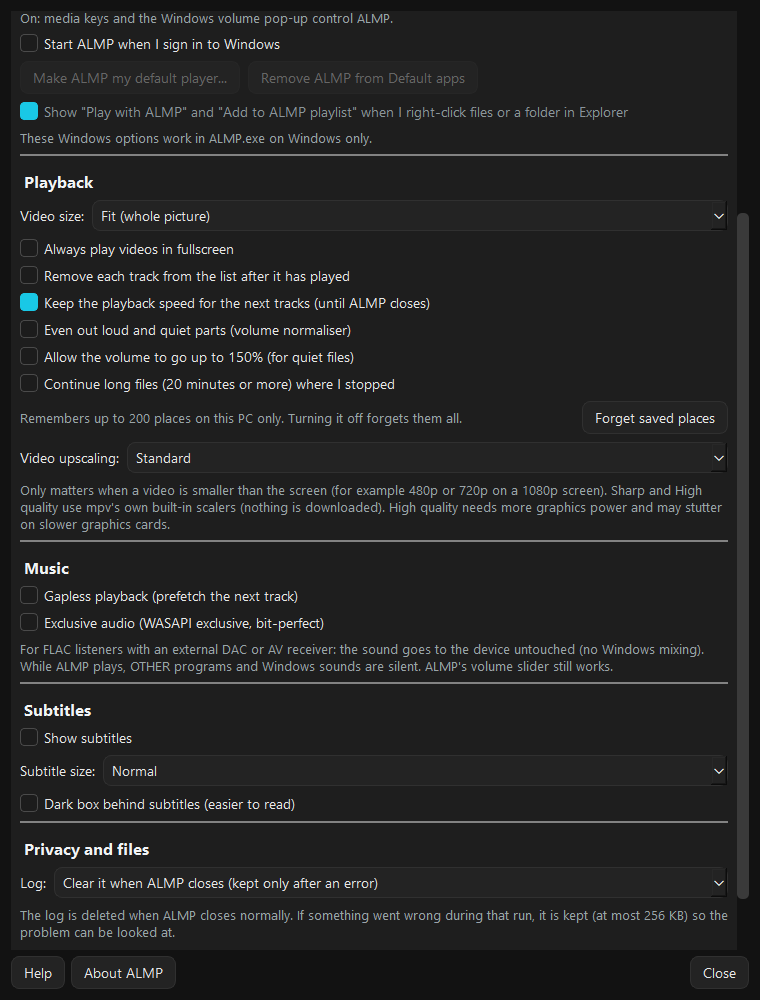
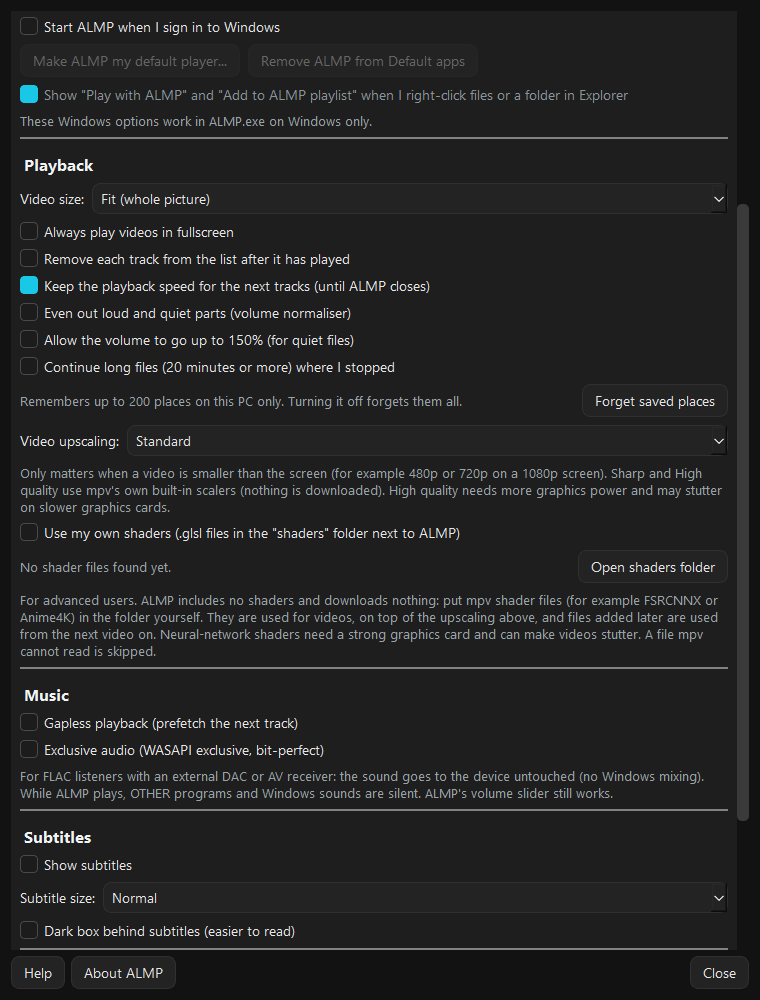
Optional user shaders: .glsl files in a "shaders" folder next to ALMP.exe
Settings > Video upscaling > "Use my own shaders" (off by default) hands the
files to mpv (glsl-shaders) for videos; "Open shaders folder" creates and
opens it. ALMP ships no shaders and downloads nothing. Checked with the real
mpv: a broken shader is skipped and the picture keeps showing. Notes, docs,
Settings screenshot and social card updated.

diff --git a/almp/ui.py b/almp/ui.py
@@ -105,14 +105,17 @@ from .media import (
     write_playlist_file,
 )
 from .naturalsort import natural_name_key, natural_path_key
-from .paths import get_app_icon_path, is_compiled
+from .paths import app_dir, get_app_icon_path, is_compiled
 from .player import (
     BOOST_MAX_VOLUME,
     MPV_IMPORT_ERROR,
     NORMAL_MAX_VOLUME,
     SCALER_KEYS,
+    SHADER_FOLDER,
     VIDEO_SIZE_NAMES,
+    apply_user_shaders,
     audio_format_text,
+    find_user_shaders,
     gapless_options,
     get_mpv_end_reason,
     mpv,
@@ -709,6 +712,46 @@ class MediaWindow(QMainWindow):
     def _apply_upscaling(self, level):
         for k, v in upscaling_properties(level, self._scaler_defaults).items():
             set_prop(self.player, k, v)
+
+    def user_shader_folder(self):
+        """The "shaders" folder next to ALMP.exe (next to main.py when run from source)."""
+        return os.path.join(app_dir(), SHADER_FOLDER)
+
+    def set_user_shaders(self, on):
+        """Settings > Video upscaling > Use my own shaders. Returns the files now in use."""
+        self.settings["user_shaders"] = bool(on)
+        update_settings(user_shaders=bool(on))
+        found = self._apply_user_shaders()
+        if not on:
+            self._status("Your own shaders are off.")
+        elif found:
+            self._status(f"Your own shaders: {len(found)} file(s) in use for videos.")
+        else:
+            self._status("No shader files (.glsl) in the shaders folder yet; nothing was loaded.")
+        return found
+
+    def _apply_user_shaders(self):
+        """Hand the files in the shaders folder to mpv (looked at again for every video, so files
+        added later are used from the next video on). Only mpv is told when the list changed."""
+        paths = find_user_shaders(self.user_shader_folder()) if self.settings.get("user_shaders") else []
+        if paths != getattr(self, "_shaders_loaded", []):
+            if apply_user_shaders(self.player, paths):
+                self._shaders_loaded = paths
+                if paths:
+                    log.info("User shaders in use: %s", ", ".join(os.path.basename(p) for p in paths))
+        return paths
+
+    def open_user_shader_folder(self):
+        """Create the shaders folder if needed (only on this click) and open it in Explorer."""
+        folder = self.user_shader_folder()
+        try:
+            os.makedirs(folder, exist_ok=True)
+        except OSError:
+            log.warning("Could not create %s", folder, exc_info=True)
+            self._status("The shaders folder cannot be created here (the ALMP folder is read-only).")
+            return False
+        QDesktopServices.openUrl(QUrl.fromLocalFile(folder))
+        return True
 
     def set_log_mode(self, mode):
         """Settings > Privacy > Log. Used when ALMP closes (and at the next start)."""
@@ -1898,6 +1941,8 @@ class MediaWindow(QMainWindow):
                     log.debug("mpv option %s not readable", k, exc_info=True)
             if s["upscaling"] != "standard":
                 self._apply_upscaling(s["upscaling"])
+            if s["user_shaders"]:
+                self._apply_user_shaders()
 
             @self.player.event_callback("end-file")
             def handle_end_file(event):
@@ -3129,6 +3174,8 @@ class MediaWindow(QMainWindow):
             already = self._in_end_handler and planned == path and not options
             try:
                 set_prop(self.player, "sub-visibility", bool(self.settings["show_subtitles"]))
+                if self.settings["user_shaders"] and not is_audio_path(path):
+                    self._apply_user_shaders()
                 if not already:
                     self.player.loadfile(path, mode="replace", **options)
                     self._loadfile_count += 1

diff --git a/tests/test_qt_window.py b/tests/test_qt_window.py
@@ -5,6 +5,7 @@ so these run there. Nothing here plays sound or opens a visible window."""
 import os
 import time
 import types
+from pathlib import Path
 
 import pytest
 
@@ -588,3 +589,65 @@ def test_ctrl_and_shift_click_select_several(window, qapp):
     assert window._selected_source_rows() == [1, 3, 4, 5]
     click(2)                                                     # a plain click: just that one again
     assert window._selected_source_rows() == [2]
+
+
+def test_find_user_shaders(tmp_path):
+    from almp.player import MAX_USER_SHADERS, find_user_shaders
+    assert find_user_shaders(tmp_path / "missing") == []
+    (tmp_path / "b_FSRCNNX.glsl").write_text("x")
+    (tmp_path / "A_anime4k.GLSL").write_text("x")
+    (tmp_path / "c.hook").write_text("x")
+    (tmp_path / "readme.txt").write_text("x")
+    (tmp_path / "sub.glsl").mkdir()
+    assert [Path(p).name for p in find_user_shaders(tmp_path)] == ["A_anime4k.GLSL", "b_FSRCNNX.glsl", "c.hook"]
+    for i in range(MAX_USER_SHADERS + 5):
+        (tmp_path / f"z{i:02}.glsl").write_text("x")
+    assert len(find_user_shaders(tmp_path)) == MAX_USER_SHADERS
+
+
+def test_apply_user_shaders_commands():
+    from almp.player import apply_user_shaders
+    p = FakeMPV()
+    assert apply_user_shaders(p, ["C:/s/a.glsl", "C:/s/b.glsl"])
+    assert p.commands == [("change-list", "glsl-shaders", "clr", ""),
+                          ("change-list", "glsl-shaders", "append", "C:/s/a.glsl"),
+                          ("change-list", "glsl-shaders", "append", "C:/s/b.glsl")]
+    assert apply_user_shaders(None, []) is False
+
+
+def test_user_shaders_setting_off_by_default_and_live(window, qapp, tmp_path, monkeypatch):
+    from almp.settings import DEFAULTS, effective_settings
+    assert DEFAULTS["user_shaders"] is False and effective_settings({})["user_shaders"] is False
+    folder = tmp_path / "shaders"
+    folder.mkdir()
+    monkeypatch.setattr(window, "user_shader_folder", lambda: str(folder))
+    window.player.commands.clear()
+    assert window.set_user_shaders(True) == []                  # empty folder: nothing to load
+    assert window.player.commands == []
+    (folder / "FSRCNNX_x2.glsl").write_text("//!HOOK MAIN")
+    from almp.store import make_entry
+    video = str(tmp_path / "clip.mp4")
+    window.model.append_entries([make_entry(video), make_entry(str(tmp_path / "song.flac"))])
+    window.play_index(window.store.index_of(video))             # a new video looks at the folder again
+    assert ("change-list", "glsl-shaders", "append", str(folder / "FSRCNNX_x2.glsl")) in window.player.commands
+    window.player.commands.clear()
+    window.play_index(window.store.index_of(video))             # unchanged: mpv is not told again
+    assert not any(c[:2] == ("change-list", "glsl-shaders") for c in window.player.commands)
+    assert window.set_user_shaders(False) == []
+    assert window.player.commands[-1] == ("change-list", "glsl-shaders", "clr", "")
+    assert window.settings["user_shaders"] is False
+
+
+def test_settings_dialog_shows_shader_files(window, qapp, tmp_path, monkeypatch):
+    from almp.dialogs import SettingsDialog
+    folder = tmp_path / "shaders"
+    monkeypatch.setattr(window, "user_shader_folder", lambda: str(folder))
+    dlg = SettingsDialog(window)
+    assert dlg.user_shaders.isChecked() is False
+    assert "No shader files" in dlg.shader_found.text()
+    folder.mkdir()
+    (folder / "Anime4K_Upscale.glsl").write_text("x")
+    dlg.user_shaders.setChecked(True)
+    assert "Found 1 shader file(s): Anime4K_Upscale.glsl" in dlg.shader_found.text()
+    assert window.settings["user_shaders"] is True
+    dlg.close()

diff --git a/almp/dialogs.py b/almp/dialogs.py
@@ -52,6 +52,12 @@ UPSCALING_NOTE = ("Only matters when a video is smaller than the screen (for exa
                   "downloaded). High quality needs more graphics power and may stutter on slower "
                   "graphics cards.")
 
+SHADERS_NOTE = ("For advanced users. ALMP includes no shaders and downloads nothing: put mpv shader "
+                "files (for example FSRCNNX or Anime4K) in the folder yourself. They are used for videos, "
+                "on top of the upscaling above, and files added later are used from the next video on. "
+                "Neural-network shaders need a strong graphics card and can make videos stutter. A file "
+                "mpv cannot read is skipped.")
+
 KEYBOARD_ROWS = [
     ("Space", "Play / pause"),
     ("F  /  Esc", "Fullscreen / leave fullscreen"),
@@ -446,6 +452,20 @@ class SettingsDialog(QDialog):
         row.addWidget(self.upscaling, 1)
         lay.addLayout(row)
         lay.addWidget(_note(UPSCALING_NOTE))
+        self.user_shaders = QCheckBox("Use my own shaders (.glsl files in the \"shaders\" folder next to ALMP)")
+        self.user_shaders.setChecked(bool(s["user_shaders"]))
+        self.user_shaders.setAccessibleName("Use my own shaders from the shaders folder")
+        self.user_shaders.toggled.connect(self._toggle_user_shaders)
+        lay.addWidget(self.user_shaders)
+        row = QHBoxLayout()
+        self.shader_found = _note("")
+        row.addWidget(self.shader_found, 1)
+        self.open_shaders = QPushButton("Open shaders folder")
+        self.open_shaders.clicked.connect(self._open_shader_folder)
+        row.addWidget(self.open_shaders)
+        lay.addLayout(row)
+        lay.addWidget(_note(SHADERS_NOTE))
+        self._update_shader_note()
         lay.addWidget(_line())
 
         # --- Music (lossless) ---
@@ -563,6 +583,25 @@ class SettingsDialog(QDialog):
             self.startup.blockSignals(False)
         except RuntimeError:
             pass                      # the dialog is closed
+
+    def _toggle_user_shaders(self, on):
+        self.win.set_user_shaders(on)
+        self._update_shader_note()
+
+    def _open_shader_folder(self):
+        self.win.open_user_shader_folder()
+        self._update_shader_note()
+
+    def _update_shader_note(self):
+        import os
+
+        from .player import find_user_shaders
+        found = find_user_shaders(self.win.user_shader_folder())
+        if found:
+            names = ", ".join(os.path.basename(f) for f in found[:3]) + (" ..." if len(found) > 3 else "")
+            self.shader_found.setText(f"Found {len(found)} shader file(s): {names}")
+        else:
+            self.shader_found.setText("No shader files found yet.")
 
     def _log_mode_changed(self, mode):
         self.win.set_log_mode(mode)

diff --git a/almp/player.py b/almp/player.py
@@ -94,6 +94,44 @@ def gapless_options(on):
     return {"gapless_audio": "weak", "prefetch_playlist": "no"}
 
 
+# Optional user shaders (Settings > Playback): mpv shader files (.glsl / .hook) the user puts in a
+# "shaders" folder next to ALMP.exe, for example FSRCNNX or Anime4K. ALMP ships none and downloads
+# none; it only hands the files it finds to mpv (glsl-shaders). Off by default.
+SHADER_FOLDER = "shaders"
+SHADER_EXTENSIONS = (".glsl", ".hook")
+MAX_USER_SHADERS = 16
+
+
+def find_user_shaders(folder):
+    """Shader files in `folder` (not its subfolders), sorted by name, at most MAX_USER_SHADERS.
+    A missing or unreadable folder gives an empty list."""
+    try:
+        names = os.listdir(folder)
+    except OSError:
+        return []
+    found = []
+    for name in sorted(names, key=str.casefold):
+        full = os.path.join(folder, name)
+        if name.lower().endswith(SHADER_EXTENSIONS) and os.path.isfile(full):
+            found.append(full)
+    return found[:MAX_USER_SHADERS]
+
+
+def apply_user_shaders(player, paths):
+    """Make mpv use exactly these shader files (an empty list removes them). mpv itself skips a file
+    it cannot compile, so a broken file never stops playback. Returns False if mpv refused."""
+    if player is None:
+        return False
+    try:
+        player.command("change-list", "glsl-shaders", "clr", "")
+        for path in paths:
+            player.command("change-list", "glsl-shaders", "append", path)
+        return True
+    except Exception:          # noqa: BLE001 - mpv raises its own error types
+        log.warning("mpv did not accept the shader list %r", paths, exc_info=True)
+        return False
+
+
 def upscaling_properties(level, standard=None):
     """mpv properties for Standard / Sharp / High quality. `standard` = mpv's own values at start."""
     if level in ("sharp", "high"):

diff --git a/almp/settings.py b/almp/settings.py
@@ -68,6 +68,7 @@ DEFAULTS = {
     "gapless": False,              # v8.2.4: gapless playback (prefetch the next track)
     "audio_exclusive": False,      # v8.2.4: WASAPI exclusive mode (bit-perfect)
     "upscaling": "standard",       # v8.2.4: standard / sharp / high
+    "user_shaders": False,         # v8.2.5: load the user's own .glsl files from the "shaders" folder
 }
 
 
@@ -159,7 +160,7 @@ def effective_settings(raw):
     out = dict(DEFAULTS)
     for key in ("shuffle", "remove_played", "high_contrast", "keep_speed", "normalize_volume",
                 "volume_boost", "subtitle_background", "media_controls", "resume_long_files", "sleep_fade",
-                "play_fullscreen", "show_subtitles", "gapless", "audio_exclusive"):
+                "play_fullscreen", "show_subtitles", "gapless", "audio_exclusive", "user_shaders"):
         out[key] = _as_bool(raw.get(key, DEFAULTS[key]), DEFAULTS[key])
     max_volume = 150 if out["volume_boost"] else 100
     try:

diff --git a/docs/release-notes/v8.2.5.md b/docs/release-notes/v8.2.5.md
@@ -4,13 +4,13 @@
 **SHA-256:** SHA_PLACEHOLDER
 
 A small update to 8.2.4: you can now select several playlist items at once and remove or delete them
-in one go. Everything new in 8.2.4 is still here; see the [8.2.4 notes](v8.2.4.md).
+in one go, and advanced users can add their own video shaders. Everything new in 8.2.4 is still here; see the [8.2.4 notes](v8.2.4.md).
 
 ![ALMP 8.2.5: several playlist items selected](https://raw.githubusercontent.com/alexbedca/Alexbed-Light-Media-Player/main/images/screenshot-v8.2.5-window.png)
 
 ![ALMP 8.2.5 in fullscreen with music](https://raw.githubusercontent.com/alexbedca/Alexbed-Light-Media-Player/main/images/screenshot-v8.2.5-fullscreen.png)
 
-![ALMP 8.2.5 Settings (unchanged since 8.2.4)](https://raw.githubusercontent.com/alexbedca/Alexbed-Light-Media-Player/main/images/screenshot-v8.2.5-settings.png)
+![ALMP 8.2.5 Settings: video upscaling and your own shaders](https://raw.githubusercontent.com/alexbedca/Alexbed-Light-Media-Player/main/images/screenshot-v8.2.5-settings.png)
 
 ## New
 - **Select several playlist items.** Ctrl+click adds or removes one item, Shift+click (or Shift+Up/Down)
@@ -24,13 +24,28 @@ in one go. Everything new in 8.2.4 is still here; see the [8.2.4 notes](v8.2.4.m
   - **Right-click** inside the selection keeps it and offers *Remove N items*, *Copy N file paths* and
     *Delete N files*.
   - If the playing track is among them, the next track plays.
+- **Your own video shaders (optional, for advanced users).** Settings > Video upscaling > *Use my own shaders*
+  (off by default). Put mpv shader files (`.glsl` or `.hook`, for example FSRCNNX or Anime4K) in a `shaders`
+  folder next to `ALMP.exe`; *Open shaders folder* creates it and opens it. They are used for videos, on top of
+  Standard / Sharp / High quality, in name order (at most 16), and files added later are used from the next
+  video on. ALMP includes no shaders and downloads nothing, so it stays small and offline, and there are no
+  extra licences in the zip. A file mpv cannot compile is skipped by mpv: the video keeps playing.
 
 ## Not changed
 - Dragging to reorder still moves one item at a time. With several items selected, a drag does nothing.
 
+## What we did not test
+- **No real neural-network shader (FSRCNNX, Anime4K) was tried**: ALMP does not download anything, so the
+  test used two small shader files written for the test. With the real mpv on a 360p video: a valid
+  pass-through shader and a deliberately broken one were both handed to mpv; the broken one gave a compile
+  error in mpv's log, and in all four cases (none / valid / broken / both) the picture kept showing with
+  0 dropped frames. How fast FSRCNNX or Anime4K run depends on the shader and the graphics card; they are
+  much heavier than High quality and can stutter on older cards.
+
 ## Checked
-- ruff and the test suite pass (314 tests, 8 new: removing and deleting several, with a search active,
-  with the playing track among them, a failed delete, no Recycle Bin, and real Ctrl / Shift clicks).
+- ruff and the test suite pass (318 tests, 12 new: removing and deleting several, with a search active,
+  with the playing track among them, a failed delete, no Recycle Bin, real Ctrl / Shift clicks, and the
+  shaders folder: finding files, the mpv commands, off by default, live on/off, Settings text).
 - Removing 50,000 of 100,000 items from the list data: under 2 s in the test (one pass, not one by one).
 - Alexander's own test of the build on his PC (select several, remove, delete).
 - The built ALMP.exe shows 8.2.5 and starts normally.

diff --git a/README.md b/README.md
@@ -20,7 +20,9 @@ and no accounts, ads or tracking.
 **Version:** 8.2.5 &nbsp;|&nbsp; **Author:** Alexander Bediako &nbsp;|&nbsp; **Licence:** [GPL-3.0-or-later](LICENSE)
 
 **New in 8.2.5:** select several playlist items at once (Ctrl+click, Shift+click, Ctrl+A) to remove them from the
-list or delete the files in one go. See the [release notes](docs/release-notes/v8.2.5.md).
+list or delete the files in one go, and (for advanced users) your own video shaders: put mpv `.glsl` files such as
+FSRCNNX or Anime4K in a `shaders` folder next to `ALMP.exe` and turn them on in Settings. ALMP includes no shaders and
+downloads nothing. See the [release notes](docs/release-notes/v8.2.5.md).
 
 **New in 8.2.4:** ALMP keeps all its files in a `Data` folder next to `ALMP.exe` (delete the folder and it is gone),
 a small log that is cleared on close, *Show subtitles* (off until you turn it on), **All / Video / Audio** filter,
@@ -51,7 +53,7 @@ and it is not a commercial product.
 - **Settings in one place** (gear button, `Ctrl+,`): high contrast, interface size, video size, *Remove played*,
   keep the playback speed, *Even out loud and quiet parts* (volume normaliser), volume up to 150%,
   show subtitles (remembered, off until you turn it on), subtitle size and a dark box behind subtitles,
-  video upscaling (Standard / Sharp / High quality, mpv's own scalers), media keys in the background, *Run at Startup*, and
+  video upscaling (Standard / Sharp / High quality, mpv's own scalers), optional own shaders from a `shaders` folder, media keys in the background, *Run at Startup*, and
   **Make ALMP my default player** / **"Play with ALMP" and "Add to ALMP playlist"** when you right-click
   files (one or many) or a folder in Explorer (your Windows account only, can be undone).
 - **High-contrast theme** (black, white and yellow) for every part of the window, including the welcome screen.

diff --git a/docs/MANUAL-TEST-v8.1.md b/docs/MANUAL-TEST-v8.1.md
@@ -140,6 +140,9 @@ Legend: **[ ]** to do. "Expected" says what must happen. If something else happe
 - [ ] Shift+Delete on files you do not need: ONE question for all of them, then they are in the Recycle Bin.
       With files on a USB stick the question says how many will be deleted PERMANENTLY.
 - [ ] The playing track among the removed / deleted ones: the next track plays.
+- [ ] Settings > "Use my own shaders": off by default; "Open shaders folder" creates `shaders` next to ALMP.exe
+      and opens it. Put a .glsl file there (for example FSRCNNX): Settings says "Found 1 shader file(s)", the next
+      video uses it (sharper on a 480p/720p video); a broken .glsl file does not stop or black out the video.
 
 ## 10. New in 8.2.4
 **Data folder (nothing left on the PC)**
